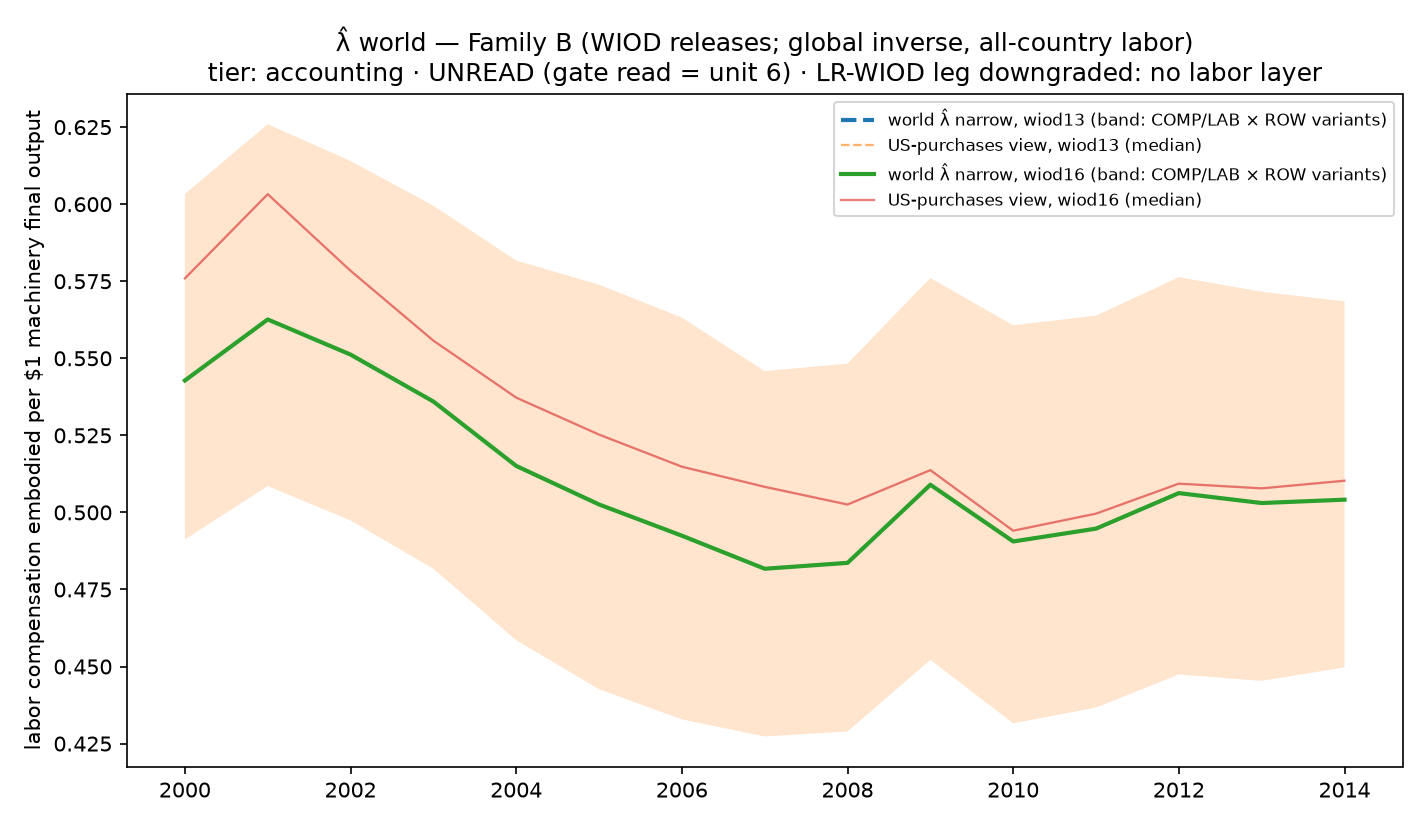
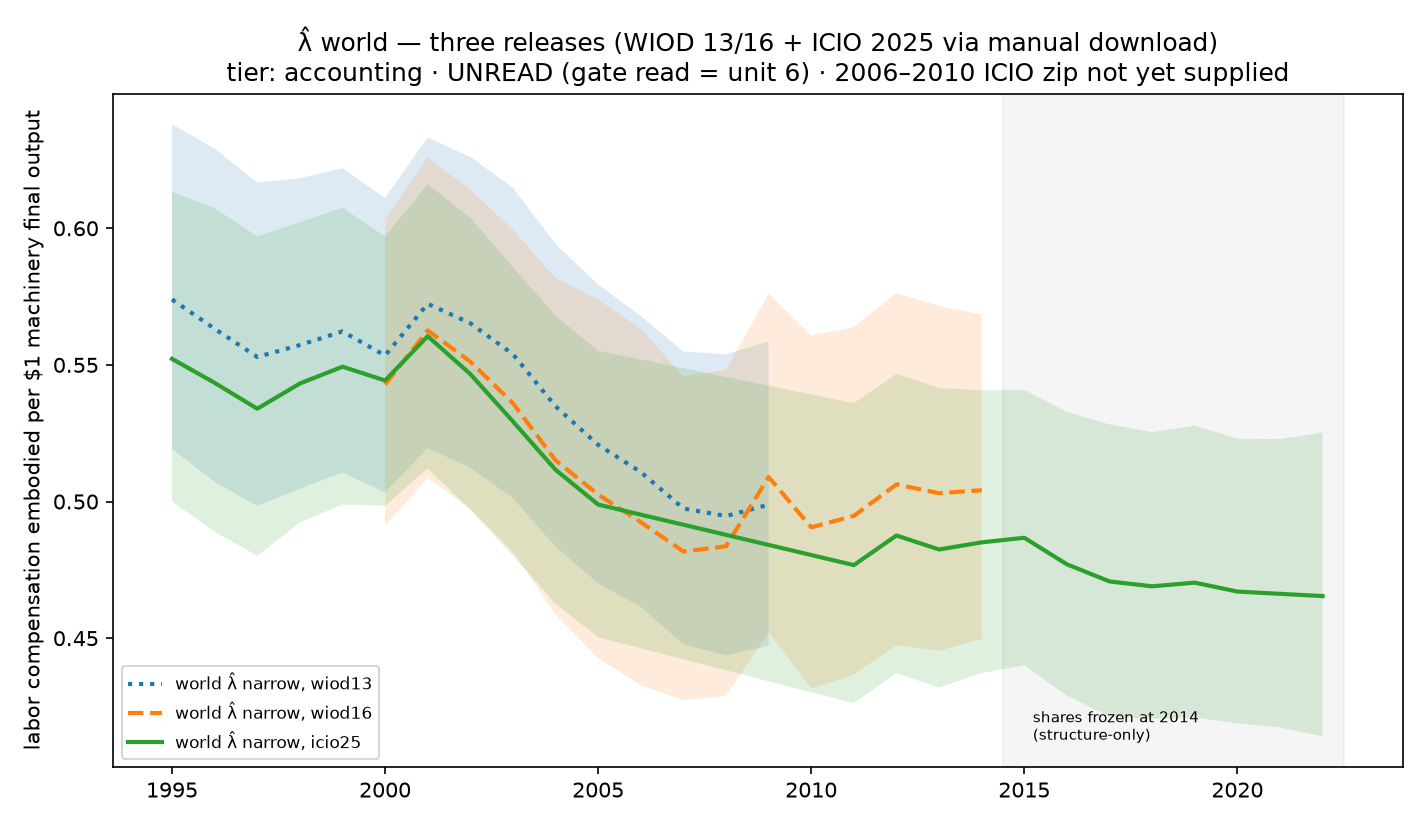
λ unit 5b: ICIO extension live — world referee on three releases, checks ALL GREEN (14)
Stella's manual download unlocked the parked member (four of five SML
zips; 2006-2010 still missing — gap flagged, WIOD covers it). 23 ICIO
years on the unit-4 engine: exact closed-world identity ≤ 5.7e-14; labor
vintages labeled per year (sea13 / sea16 / frozen2014 for 2015–22 — the
structure-only member); ICIO↔WIOD16 overlap 0.031 over 10 years. W2's
world window restored to 1995–2022 with the labeled frozen tail. Zips
moved to the gitignored cache. Three new checks (coverage-with-gap,
vintage flags, cross-release overlap); dtype fix in the battery. Series
and figure UNREAD; unit 6 is the gate read.

diff --git a/progress_and_prosperity/lambda/code/compute_icio.py b/progress_and_prosperity/lambda/code/compute_icio.py
@@ -1,0 +1,217 @@
+# compute_icio.py — λ unit 5b: the ICIO extension of the world referee
+# (unlocked by Stella's manual download of the 2025-edition SML zips,
+# 2026-08-20 — the five-click vendored step; 2006-2010_SML.zip not supplied
+# yet, and 2006–2010 is fully covered by WIOD anyway).
+#
+# Same object and engine as unit 4 (compute_family_b.engine): world λ̂ and
+# hours through the global inverse of the closed world table; views world /
+# US-purchases with the US/foreign decomposition; {COMP, LAB} × {ROW=0,
+# ROW=mean} bands.
+#
+# Labor layer, honestly labeled per year (labor_vintage column):
+#   1995–1999: SEA13 shares (ISIC3, coarser map)      → "sea13"
+#   2000–2014: SEA16 shares (ISIC4, near-1:1 map)     → "sea16"
+#   2015–2022: SEA16 shares FROZEN at 2014            → "frozen2014"
+# The frozen member attributes ALL post-2014 λ̂ movement to structure
+# (A, trade, final demand) and NONE to within-industry share drift — a
+# transparent conservative assumption, flagged in every output; the gate
+# read weights it accordingly.
+#
+# ICIO areas without SEA labor data (incl. ROW) ride the {0, mean} band, as
+# in unit 4. GO = the published OUT row (verified > column intermediate
+# sum); FD excludes INVNT (committed rule); DPABR kept (consumption).
+
+import os, sys, zipfile
+import numpy as np
+import pandas as pd
+
+HERE = os.path.dirname(os.path.abspath(__file__))
+CACHE = os.path.join(HERE, "..", "data", "cache")
+OUT = os.path.join(HERE, "..", "data")
+FIG = os.path.join(HERE, "..", "figures")
+sys.path.insert(0, HERE)
+from compute_family_b import engine
+
+ZIPS = {  # year → zip
+    **{y: "1995-2000_SML.zip" for y in range(1995, 2001)},
+    **{y: "2001-2005_SML.zip" for y in range(2001, 2006)},
+    **{y: "2011-2015_SML.zip" for y in range(2011, 2016)},
+    **{y: "2016-2022_SML.zip" for y in range(2016, 2023)},
+}
+FD_CATS = {"HFCE", "NPISH", "GGFC", "GFCF", "INVNT", "DPABR"}
+SETS_ICIO = {"narrow": ["C26", "C27", "C28"], "medium": ["C26", "C27", "C28", "J62_63"]}
+
+# ICIO activity → SEA16 codes (shares pooled over the listed codes)
+A16 = {
+    "A01": ["A01"], "A02": ["A02"], "A03": ["A03"],
+    "B05": ["B"], "B06": ["B"], "B07": ["B"], "B08": ["B"], "B09": ["B"],
+    "C10T12": ["C10-C12"], "C13T15": ["C13-C15"], "C16": ["C16"],
+    "C17_18": ["C17", "C18"], "C19": ["C19"], "C20": ["C20"], "C21": ["C21"],
+    "C22": ["C22"], "C23": ["C23"], "C24A": ["C24"], "C24B": ["C24"],
+    "C25": ["C25"], "C26": ["C26"], "C27": ["C27"], "C28": ["C28"],
+    "C29": ["C29"], "C301": ["C30"], "C302T309": ["C30"],
+    "C31T33": ["C31_C32", "C33"], "D": ["D35"], "E": ["E36", "E37-E39"],
+    "F": ["F"], "G": ["G45", "G46", "G47"],
+    "H49": ["H49"], "H50": ["H50"], "H51": ["H51"], "H52": ["H52"], "H53": ["H53"],
+    "I": ["I"], "J58T60": ["J58", "J59_J60"], "J61": ["J61"], "J62_63": ["J62_J63"],
+    "K": ["K64", "K65", "K66"], "L": ["L68"],
+    "M": ["M69_M70", "M71", "M72", "M73", "M74_M75"], "N": ["N"],
+    "O": ["O84"], "P": ["P85"], "Q": ["Q"], "R": ["R_S"], "S": ["R_S"], "T": ["T"],
+}
+# ICIO activity → SEA13 code (ISIC3; coarser — machinery block honesty:
+# C26/C27 → 30t33 (electrical AND optical), C28 → 29)
+A13 = {
+    "A01": "AtB", "A02": "AtB", "A03": "AtB",
+    "B05": "C", "B06": "C", "B07": "C", "B08": "C", "B09": "C",
+    "C10T12": "15t16", "C13T15": "17t18", "C16": "20",
+    "C17_18": "21t22", "C19": "23", "C20": "24", "C21": "24",
+    "C22": "25", "C23": "26", "C24A": "27t28", "C24B": "27t28", "C25": "27t28",
+    "C26": "30t33", "C27": "30t33", "C28": "29",
+    "C29": "34t35", "C301": "34t35", "C302T309": "34t35",
+    "C31T33": "36t37", "D": "E", "E": "E", "F": "F",
+    "G": "51", "H49": "60", "H50": "61", "H51": "62", "H52": "63", "H53": "64",
+    "I": "H", "J58T60": "71t74", "J61": "64", "J62_63": "71t74",
+    "K": "J", "L": "70", "M": "71t74", "N": "71t74",
+    "O": "L", "P": "M", "Q": "N", "R": "O", "S": "O", "T": "P",
+}
+
+def sea_tables():
+    s16 = pd.ExcelFile(os.path.join(CACHE, "wiod16_sea.xlsx")).parse("DATA")
+    s13 = pd.ExcelFile(os.path.join(CACHE, "wiod13_sea_jul14.xlsx")).parse("DATA")
+    v16 = {v: s16[s16["variable"] == v].set_index(["country", "code"])
+           for v in ("COMP", "LAB", "GO", "H_EMPE")}
+    v13 = {v: s13[s13["Variable"] == v].set_index(["Country", "Code"])
+           for v in ("COMP", "LAB", "GO", "H_EMP")}
+    return v16, v13
+
+def share_maps(v16, v13, yr):
+    """Return (vintage, getter): getter(country, act, var) → share or nan.
+    var ∈ {COMP, LAB, HRS} (HRS returns hours LEVEL, pooled)."""
+    if yr >= 2000:
+        y = min(yr, 2014); vintage = "sea16" if yr <= 2014 else "frozen2014"
+        def get(c, act, var):
+            codes = A16.get(act)
+            if not codes:
+                return np.nan
+            try:
+                if var == "HRS":
+                    return sum(float(v16["H_EMPE"].loc[(c, k), y]) for k in codes)
+                num = sum(float(v16[var].loc[(c, k), y]) for k in codes)
+                den = sum(float(v16["GO"].loc[(c, k), y]) for k in codes)
+                return num / den if den > 0 else np.nan
+            except KeyError:
+                return np.nan
+        return vintage, get
+    else:
+        ycol = f"_{yr}"; vintage = "sea13"
+        def get(c, act, var):
+            k = A13.get(act)
+            if not k:
+                return np.nan
+            try:
+                if var == "HRS":
+                    return float(v13["H_EMP"].loc[(c, k), ycol])
+                num = float(v13[var].loc[(c, k), ycol])
+                den = float(v13["GO"].loc[(c, k), ycol])
+                return num / den if den > 0 else np.nan
+            except KeyError:
+                return np.nan
+        return vintage, get
+
+def main():
+    v16, v13 = sea_tables()
+    only = [int(a) for a in sys.argv[1:]] or sorted(ZIPS)
+    ledger, rows = [], []
+    for yr in only:
+        zf = zipfile.ZipFile(os.path.join(CACHE, ZIPS[yr]))
+        with zf.open(f"{yr}_SML.csv") as f:
+            d = pd.read_csv(f, index_col=0)
+        cols = list(d.columns)
+        ind_cols = [c for c in cols if "_" in c and c.split("_", 1)[1] not in FD_CATS and c != "OUT"]
+        fd_cols = [c for c in cols if "_" in c and c.split("_", 1)[1] in FD_CATS]
+        ind_rows = [r for r in d.index if r in set(ind_cols)]
+        assert len(ind_rows) == len(ind_cols), f"{yr}: row/col industry mismatch"
+        Z = d.loc[ind_rows, ind_rows].fillna(0.0).values
+        GO = d.loc["OUT", ind_rows].fillna(0.0).values
+        ratio = np.nanmedian(np.where(Z.sum(axis=0) > 0, GO / np.maximum(Z.sum(axis=0), 1e-9), np.nan))
+        assert ratio > 1.05, f"{yr}: OUT row fails the gross-output ratio test ({ratio:.3f})"
+        pre = d.loc[ind_rows, fd_cols].fillna(0.0)
+        keep_fd = [c for c in fd_cols if c.split("_", 1)[1] != "INVNT"]
+        FD = pre[keep_fd].clip(lower=0.0)
+        FD.index = range(len(ind_rows))
+        fd_us_cols = [c for c in keep_fd if c.startswith("USA_")]
+
+        keys = [(r.split("_", 1)[0], r.split("_", 1)[1]) for r in ind_rows]
+        vintage, get = share_maps(v16, v13, yr)
+        n = len(keys)
+        vw_comp = np.array([get(c, a, "COMP") for c, a in keys])
+        vw_lab = np.array([get(c, a, "LAB") for c, a in keys])
+        hrs = np.array([get(c, a, "HRS") for c, a in keys])
+        vh = np.where((hrs > 0) & (GO > 0), hrs / np.maximum(GO, 1e-9), np.nan)
+        cover = ~np.isnan(vw_comp)
+        w_mean = np.nansum(vw_comp * GO) / np.nansum(np.where(cover, GO, np.nan))
+        l_mean = np.nansum(vw_lab * GO) / np.nansum(np.where(cover, GO, np.nan))
+        v_w_map = {"comp_row0": np.where(cover, vw_comp, 0.0),
+                   "comp_rowm": np.where(cover, vw_comp, w_mean),
+                   "lab_row0": np.where(cover, np.nan_to_num(vw_lab), 0.0),
+                   "lab_rowm": np.where(cover, np.nan_to_num(vw_lab), l_mean)}
+        hcover = ~np.isnan(vh)
+        h_mean = np.nansum(np.where(hcover, vh, 0.0) * GO) / np.nansum(np.where(hcover, GO, np.nan))
+        v_h_map = {"h_row0": np.where(hcover, vh, 0.0), "h_rowm": np.where(hcover, vh, h_mean)}
+        comp_usd = np.nansum(np.where(cover, vw_comp, 0.0) * GO)
+        hours_tot = np.nansum(np.where(hcover, vh, 0.0) * GO)
+        wbar = comp_usd / hours_tot if hours_tot > 0 else np.nan
+        us_mask = np.array([c == "USA" for c, a in keys], dtype=float)
+        set_keys = {s: np.array([a in acts for c, a in keys], dtype=float)
+                    for s, acts in SETS_ICIO.items()}
+
+        out = engine(Z, GO, FD, keys, v_w_map, v_h_map, us_mask, set_keys, fd_us_cols,
+                     ledger, f"icio {yr}")
+        out.update({"year": yr, "release": "icio25", "labor_vintage": vintage,
+                    "wbar": wbar,
+                    "cover_share": float(np.nansum(np.where(cover, GO, 0)) / GO.sum())})
+        rows.append(out)
+        print(f"  icio {yr} done ({vintage}, ident {out['ident_err']:.1e})", flush=True)
+
+    res = pd.DataFrame(rows).set_index(["release", "year"]).sort_index()
+    for c in [c for c in res.columns if c.startswith("hours_")]:
+        res[c.replace("hours_", "hrel_")] = res[c] * res["wbar"]
+    fp = os.path.join(OUT, "lambda_world_family_b.csv")
+    old = pd.read_csv(fp).set_index(["release", "year"])
+    res = pd.concat([old[~old.index.isin(res.index)], res]).sort_index()
+    res.to_csv(fp)
+    print("\n=== ledger ===")
+    for e in ledger:
+        print("  ", " | ".join(str(x) for x in e))
+    icio = res.loc["icio25"]
+    show = [c for c in icio.columns if c.startswith("lam_narrow_world_")] + ["labor_vintage", "cover_share"]
+    print(icio[show].round(4).to_string())
+
+    import matplotlib
+    matplotlib.use("Agg")
+    import matplotlib.pyplot as plt
+    fig, ax = plt.subplots(figsize=(9.5, 5.5))
+    for rel, style in (("wiod13", ":"), ("wiod16", "--"), ("icio25", "-")):
+        if rel not in res.index.get_level_values(0):
+            continue
+        sub = res.loc[rel]
+        band_cols = [c for c in sub.columns if c.startswith("lam_narrow_world_")
+                     or (rel == "wiod13" and c.startswith("lam_narrow13_world_"))]
+        band = sub[band_cols].dropna(how="all")
+        ax.fill_between(band.index, band.min(axis=1), band.max(axis=1), alpha=0.15)
+        ax.plot(band.index, band.median(axis=1), style, lw=2, label=f"world λ̂ narrow, {rel}")
+    frozen = res.loc["icio25"].query("labor_vintage == 'frozen2014'")
+    if len(frozen):
+        ax.axvspan(frozen.index.min() - 0.5, frozen.index.max() + 0.5, alpha=0.08, color="gray")
+        ax.text(frozen.index.min() + 0.2, ax.get_ylim()[0] + 0.01,
+                "shares frozen at 2014\n(structure-only)", fontsize=7)
+    ax.set_ylabel("labor compensation embodied per $1 machinery final output")
+    ax.set_title("λ̂ world — three releases (WIOD 13/16 + ICIO 2025 via manual download)\n"
+                 "tier: accounting · UNREAD (gate read = unit 6) · 2006–2010 ICIO zip not yet supplied")
+    ax.legend(fontsize=8)
+    fig.tight_layout()
+    fig.savefig(os.path.join(FIG, "lambda_world_family_b.png"), dpi=150)
+    print("\nwrote lambda_world_family_b.csv (+icio25) and refreshed the figure")
+
+if __name__ == "__main__":
+    main()

diff --git a/progress_and_prosperity/lambda/checks/check_family_b.py b/progress_and_prosperity/lambda/checks/check_family_b.py
@@ -18,10 +18,27 @@ def main():
     res = pd.read_csv(os.path.join(OUT, "lambda_world_family_b.csv"))
     w13 = res[res.release == "wiod13"].set_index("year")
     w16 = res[res.release == "wiod16"].set_index("year")
+    ic = res[res.release == "icio25"].set_index("year")
 
     check("C1 coverage: wiod13 1995–2011 (17y), wiod16 2000–2014 (15y)",
           len(w13) == 17 and len(w16) == 15
           and w13.index.min() == 1995 and w16.index.max() == 2014)
+
+    exp_icio = sorted(set(range(1995, 2023)) - set(range(2006, 2011)))
+    check("C11 icio25 coverage: 1995–2022 minus the 2006–2010 gap (zip not yet supplied)",
+          sorted(ic.index) == exp_icio, f"{len(ic)} years; gap 2006–2010 EXPECTED until the fifth zip arrives")
+
+    vint_ok = (all(ic.loc[y, "labor_vintage"] == "sea13" for y in ic.index if y <= 1999)
+               and all(ic.loc[y, "labor_vintage"] == "sea16" for y in ic.index if 2000 <= y <= 2014)
+               and all(ic.loc[y, "labor_vintage"] == "frozen2014" for y in ic.index if y >= 2015))
+    check("C12 icio25 labor-vintage flags correct (sea13 / sea16 / frozen2014)",
+          vint_ok, f"frozen years: {sorted(y for y in ic.index if y >= 2015)}")
+
+    tri = (ic["lam_narrow_world_comp_rowm"].dropna()
+           .align(w16["lam_narrow_world_comp_rowm"].dropna(), join="inner"))
+    tridev = float((tri[0] - tri[1]).abs().max()) if len(tri[0]) else np.nan
+    check("C13 icio25 ↔ wiod16 overlap recorded (report-only; editions differ)",
+          np.isfinite(tridev), f"max |icio−wiod16| {tridev:.3f} on world/comp/rowm, {len(tri[0])} overlap years")
 
     check("C2 exact global identity ≤ 1e-9 every year (closed world table)",
           bool((res["ident_err"] < 1e-9).all()),
@@ -34,7 +51,8 @@ def main():
     # per-release evaluation: each release has its own sector-set columns;
     # cross-release cells are structurally NaN, and thin-labor years are
     # excluded upstream (flagged) — both masked here, not failed on.
-    kept = res[~res["thin_labor_excluded"].fillna(False)]
+    thin_mask = res["thin_labor_excluded"].astype(str).eq("True")
+    kept = res[~thin_mask]
     lam_cols = [c for c in res.columns if c.startswith("lam_") and "US_" not in c]
     ok_range, lo, hi = True, np.inf, -np.inf
     for _, sub in kept.groupby("release"):
@@ -71,7 +89,7 @@ def main():
           dec_ok and all(0 < f < 1 for f in fshare),
           f"foreign-labor share of US machinery purchases: [{min(fshare):.2f}, {max(fshare):.2f}]")
 
-    excl = res[res["thin_labor_excluded"].fillna(False)]
+    excl = res[thin_mask]
     check("C6 labor coverage ≥ 60% for every kept year; thin years excluded and flagged",
           bool((kept["cover_share"] >= 0.6).all()),
           f"kept min {kept['cover_share'].min():.2f}; excluded: "

diff --git a/progress_and_prosperity/lambda_spec.md b/progress_and_prosperity/lambda_spec.md
@@ -216,7 +216,7 @@ industry rent series, probed at unit 5) — openICPSR walls stay excluded.
 | BEA IO accounts (annual make–use + SUT; total requirements) | annual 1997–2023 (+2017 detail) | PULLED (unit 2) — static zips title-verified (`AllTablesIO.zip`, `AllTablesSUP.zip`, no registration); truststore/PowerShell routes; construction verified against the published IxC_TR (see `lambda/data/DATA_NOTES.md`) |
 | BEA historical benchmark make–use (SIC era: 1947, '58, '63, '67, '72, '77, '82, '87, '92) | 1947–1992 | PULLED (unit 3) — per-year packages from the historical-benchmarks page (URLs in `pull_century.py`); all nine parse; compensation split exists 1967+ only (pre-1967 dropped, not imputed; NIPA-bridge recovery queued) |
 | BEA GDP-by-Industry value-added components | 1947– | PULLED (unit 2) — cross-check members, report-only in v1 |
-| OECD ICIO, 2025 edition (rev. 2026-01) | 1995–2022; 81 areas × 50 activities | GREEN (unit 1, 2026-08-20) — direct zips on webfs-sti.oecd.org, URL set in `lambda_prior_art.md`; harness fetcher passes the host (ReadMe pulled), local curl/PowerShell 403 → fetcher route, manual vendored download as the large-file fallback |
+| OECD ICIO, 2025 edition (rev. 2026-01) | 1995–2022; 81 areas × 50 activities | IN HAND (unit 5b) — manual vendored download performed by Stella 2026-08-20 (data zips 403 every scriptable client); four of five SML zips supplied, **2006–2010 still missing** (gap flagged; WIOD covers it); labor layer = SEA13/SEA16 shares, frozen-2014 for 2015–22 (labeled) |
 | OECD TiM (labor layer for ICIO) | ~1995– | NOT PROBED — landing recorded unit 1; moot unless the ICIO manual download happens |
 | WIOD 2016 (+SEA: COMP, LAB, H_EMPE) | 2000–2014 | PULLED (unit 4) — Stata WIOTs via DataverseNL public GET; checks green |
 | WIOD 2013 (+SEA July-2014) | 1995–2011 (labor kept 1995–2009; 2010–11 excluded, 24% coverage) | PULLED (unit 4) — long-panel dta; vintage overlap vs 2016 ≤ 0.019 |

diff --git a/progress_and_prosperity/STATE.md b/progress_and_prosperity/STATE.md
@@ -125,6 +125,17 @@ are veto windows (defaults stand unless vetoed).
    A&R §3.3 level anchor recorded. Outputs
    `lambda/data/lambda_us_hours_rent.csv` + figure — **UNREAD**. All
    three referees and both legs now exist; unit 6 is the gate read.
+11. **λ unit 5b DONE — ICIO extension live, checks ALL GREEN (14)**
+   (2026-08-20). Stella performed the five-click manual download; four of
+   five SML zips supplied (**2006-2010_SML.zip still missing** — gap
+   flagged in C11, WIOD covers it; drop it in `lambda/data/cache/` and
+   rerun `compute_icio.py` any time). 23 ICIO years built on the unit-4
+   engine: exact identity ≤ 5.7e-14; labor vintages labeled per year
+   (sea13 1995–99 / sea16 2000–14 / **frozen2014 2015–22** — the
+   structure-only member, all post-2014 movement from A + trade + demand,
+   none from share drift). ICIO↔WIOD16 overlap: 0.031 max over 10 years.
+   W2's world window is back to **1995–2022** (with the labeled frozen
+   tail and the 2006–10 gap). Files moved to the gitignored cache.
 
 **Phase 0 remainder:** the λ pull-and-read (next actions below); (S) the
 education test post while the conversation is warm; (us) P1 absorbing
@@ -183,6 +194,11 @@ revision as usual (that work lives in `../the-link-revision/`, not here).
       as implied rents / compensation; unmapped industries carry the
       aggregate ratio; W1b's H leg NAICS-segment-only; A&R stays a level
       anchor, never an industry series.
+- [ ] Unit 5b's delegated calls: frozen-2014 shares as the 2015–22 labor
+      layer (structure-only, labeled) rather than extrapolating shares;
+      SEA13's coarser ISIC3 map for 1995–99 (C26/C27 pool into 30t33);
+      DPABR kept in final demand, INVNT excluded; the 2006–10 gap accepted
+      pending the fifth zip; ICIO zips kept out of git via the cache.
 
 ## Next actions (priority order)
 

diff --git a/progress_and_prosperity/lambda/data/DATA_NOTES.md b/progress_and_prosperity/lambda/data/DATA_NOTES.md
@@ -132,6 +132,25 @@ coverage ≥ 0.84.
 
 Checks: `checks/check_family_b.py` — ALL GREEN (11) on 2026-08-20.
 
+### ICIO extension (unit 5b, 2026-08-20 — Stella's manual download)
+
+The parked ICIO member came alive: Stella performed the five-click vendored
+download (the file host 403s every scriptable client). Supplied: four of
+five SML zips + annex + ReadMe — **2006-2010_SML.zip still missing** (gap
+flagged in checks; WIOD covers those years; drop the fifth zip into
+`lambda/data/cache/` any time and rerun `compute_icio.py`). Files moved to
+the gitignored cache — large binaries stay out of git history.
+
+`code/compute_icio.py`, same engine as unit 4: 2025-edition SML CSVs
+(~4,041 country-industries; GO = published OUT row, ratio-verified; FD
+excludes INVNT, keeps DPABR). Labor layer labeled per year
+(`labor_vintage`): 1995–99 SEA13 shares (ISIC3, coarser map — C26/C27 pool
+into 30t33), 2000–14 SEA16 (near-1:1), **2015–22 = shares frozen at 2014**
+— the structure-only member: all post-2014 movement comes from A, trade,
+and final demand, none from within-industry share drift; a transparent
+conservative assumption the gate read weights accordingly. Areas without
+SEA labor (incl. ROW) ride the {0, mean} band as before.
+
 ## US hours + rent layer (unit 5, built 2026-08-20)
 
 Hours (H_rel for W3/W1b's NAICS segment): r_vec = TR·f from the unit-2
